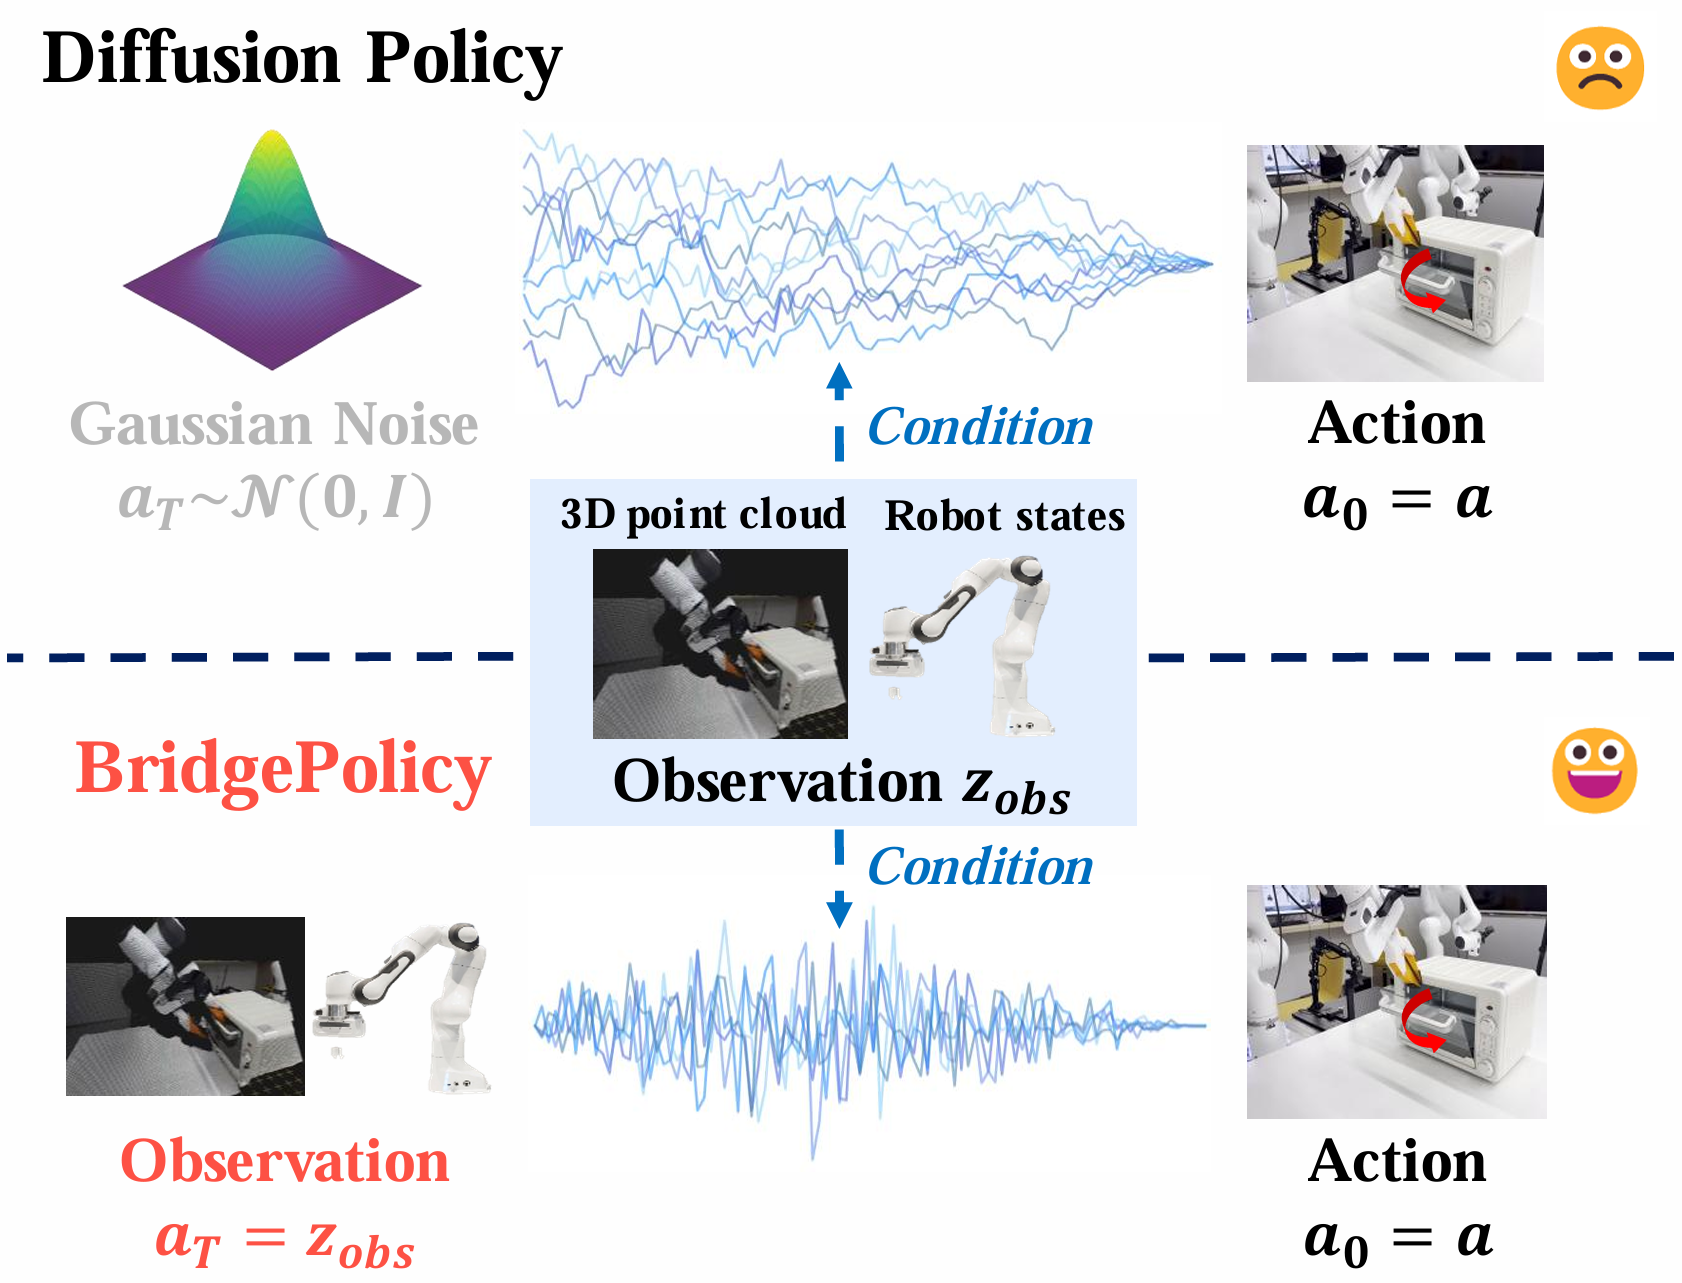
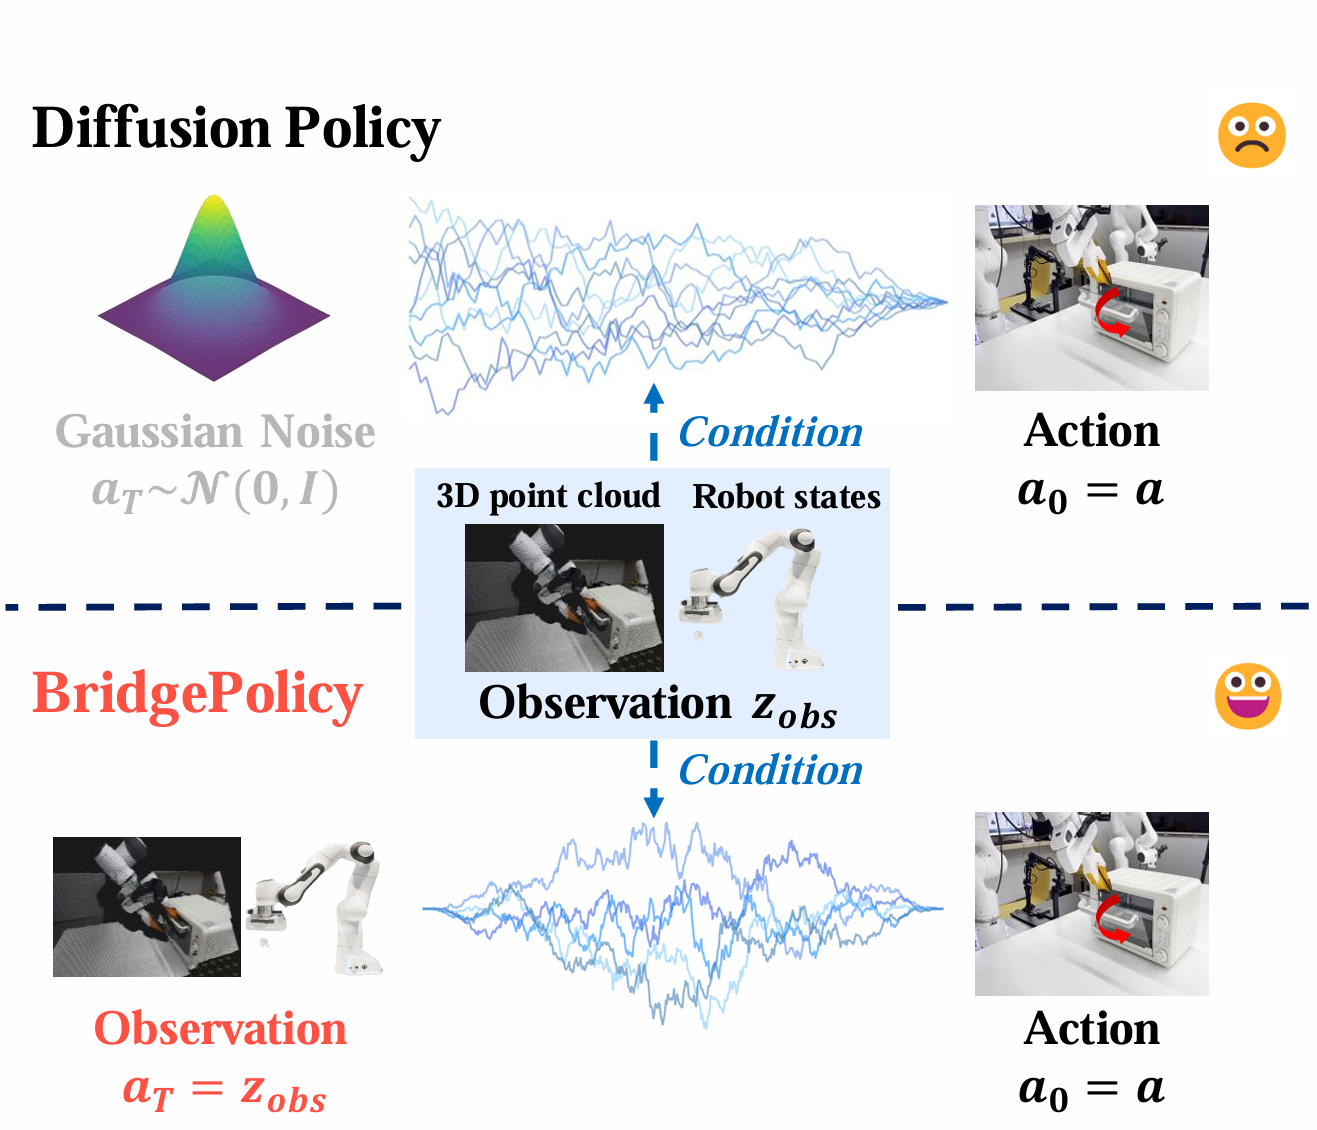
update

diff --git a/_pages/about.md b/_pages/about.md
@@ -18,7 +18,7 @@ redirect_from:
 <span class='anchor' id='about-me'></span>
 Hi, I'm a 1st-year CS Master student at School of Information and Technology at ShanghaiTech University under the supervision of [Prof. Ye Shi](https://shiye21.github.io/). My research interests includes computer vision and machine learning. My current research focus is on Deep Generative Models such as **Diffusion Bridge Models** and **Flow Matching**.
 
-I have published more than 1 papers at the top international AI conferences with total <a href='https://scholar.google.com/citations?user=YUULLMoAAAAJ'>google scholar citations <strong><span id='total_cit'>0+</span></strong></a>. Feel free to contact me for any questions or opportunities. :P
+I have published more than 3 papers at the top international AI conferences with total <a href='https://scholar.google.com/citations?user=YUULLMoAAAAJ'>google scholar citations <strong><span id='total_cit'>0+</span></strong></a>. Feel free to contact me for any questions or opportunities. :P
 
 <!-- I have published more than 100 papers at the top international AI conferences with total <a href='https://scholar.google.com/citations?user=DhtAFkwAAAAJ'>google scholar citations <strong><span id='total_cit'>0+</span></strong></a> (You can also use google scholar badge <a href='https://scholar.google.com/citations?user=DhtAFkwAAAAJ'><img src="https://img.shields.io/endpoint?url={{ url | url_encode }}&logo=Google%20Scholar&labelColor=f6f6f6&color=9cf&style=flat&label=citations"></a>). -->
 
@@ -31,7 +31,7 @@ I have published more than 1 papers at the top international AI conferences with
 
 
 # 🔥 News
-<!-- - *2026.05*: Our papers **Sample from What You See: Visuomotor Policy Learning via Diffusion Bridge with Observation-Embedded Stochastic Differential Equation** and **Diffusion Bridge or Flow Matching? A Unifying Framework and Comparative Analysis** were accepted by **ICML 2026**!🎉🎉 -->
+- *2026.05*: Our papers **Sample from What You See: Visuomotor Policy Learning via Diffusion Bridge with Observation-Embedded Stochastic Differential Equation** and **Diffusion Bridge or Flow Matching? A Unifying Framework and Comparative Analysis** were accepted by **ICML 2026**!🎉🎉
 - *2025.05*: Our paper **UniDB: A Unified Diffusion Bridge Framework via Stochastic Optimal Control** was accepted by **ICML 2025** as a **Spotlight**!🎉🎉
 - *2025.04*: Our paper **UniDB** won **Outstanding Paper Award** of **ICLR 2025 DeLTa Workshop**!🎉🎉
 
@@ -46,7 +46,7 @@ I have published more than 1 papers at the top international AI conferences with
       <div class="badge">
         ICML 2026 Poster
       </div>
-      <img src='images/publication/BP_main.png' alt="sym" width="100%">
+      <img src='images/publication/BridgePolicy_main.png' alt="sym" width="100%">
     </div>
   </div>
   <div class='paper-box-text' markdown="1">
@@ -64,7 +64,7 @@ I have published more than 1 papers at the top international AI conferences with
       <div class="badge">
         ICML 2026 Poster
       </div>
-      <img src='images/publication/DF_main.png' alt="sym" width="100%">
+      <img src='images/publication/DB_vs_FM_main.png' alt="sym" width="100%">
     </div>
   </div>
   <div class='paper-box-text' markdown="1">
